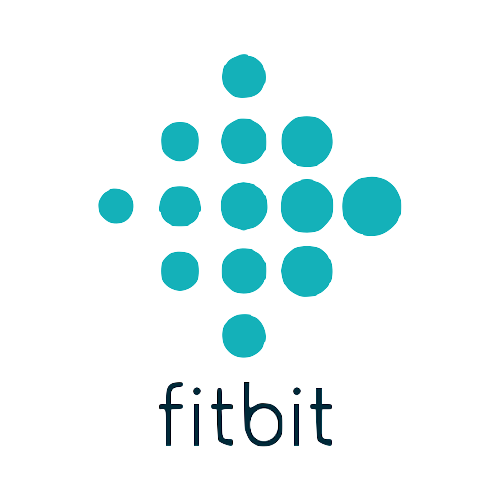
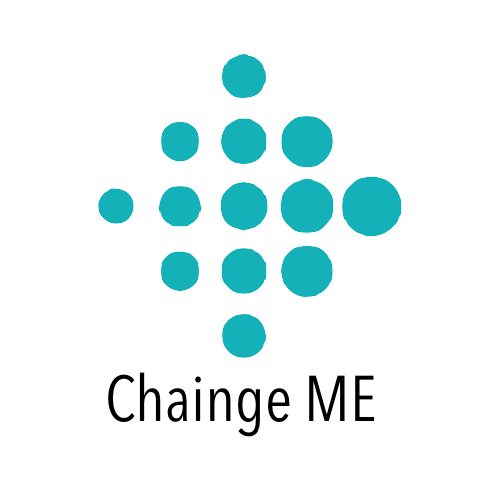
Chainge ME and graphics

Changed region(s): [[0.21, 0.75, 0.75, 0.9]]

diff --git a/app/callback.html b/app/callback.html
@@ -1,7 +1,7 @@
 <!DOCTYPE html>
 <html>
 <head>
-    <title>MetaCoin - Default Truffle App</title>
+    <title>Chainge ME</title>
     <!--link href='https://fonts.googleapis.com/css?family=Open+Sans:400,700' rel='stylesheet' type='text/css'>
     <link href="./app.css" rel='stylesheet' type='text/css'-->
     <script src="./app.js"></script>
@@ -49,7 +49,7 @@
             width: 300px;
             position: absolute;
             left: 120px;
-            top: 319px;
+            top: 339px;
         }
         #sign {
             border-radius: 30%;
@@ -95,6 +95,11 @@
         button.mui-btn.mui-btn--primary {
             background-color: rgb(20, 177, 185);
         }
+        h4.goalAddress {
+            word-break: break-all;
+            color: wheat;
+            font-family: fantasy;
+        }
     </style>
 </head>
 <body>
@@ -138,7 +143,7 @@
                 <span class="mui-caret"></span>
               </button>
               <ul class="mui-dropdown__menu mui-dropdown__menu--right">
-                <li><a href="#" @click="g.friend = 'Bill&Melinda Gates'"><img class="img-circle" src="http://fillmurray.com/64/64" width="38px" height="38px">Bill&Melinda Gates</a></li>
+                <li><a href="#" @click="g.friend = 'Kevin Loaec'"><img class="img-circle" src="http://fillmurray.com/64/64" width="38px" height="38px">Kevin Loaec</a></li>
                 <li><a href="#" @click="g.friend = 'UNICEF'"><img class="img-circle" src="http://fillmurray.com/65/65" width="38px" height="38px">UNICEF</a></li>
                 <li><a href="#" @click="g.friend = 'Children’s Health Fund'"><img class="img-circle" src="http://fillmurray.com/66/66" width="38px" height="38px">Children's Health Fund</a></li>
                 <li><a href="#" @click="g.friend = 'Friends of Animals'"><img class="img-circle" src="http://fillmurray.com/67/67" width="38px" height="38px">Friends of Animals</a></li>
@@ -182,6 +187,7 @@
     })
     Vue.component('contract', {
         template: `
+        <div>
         <div class="contract">
             <article id="contract">
                 <h3 id="personalcontract">Personal Contract</h3>
@@ -200,14 +206,20 @@
                     <img src="http://img12.deviantart.net/8b7c/i/2013/055/3/0/wax_seal_a_by_shinraxtensei-d5w3qe6.png" id="seal" v-if="waxSeal">
                     <button id="sign" v-on:click="createGoal" v-if="!contractSigned">Sign</button>
                 </div>
+
             </article>
+        </div>
+        <div v-if="goalAddress">
+           <h4 class="goalAddress">Your contract is stored at: {{goalAddress}}</h4>
+        </div>
         </div>
         `,
         data () {
             return {
                 waxSeal: false,
                 contractSigned: false,
-                g
+                g,
+                goalAddress: undefined
             }
         },
         methods: {
@@ -225,6 +237,7 @@
                   // TODO ??
                   this.waxSeal = true
                   const goal = Goal.at(goalAddress);
+                  this.goalAddress = goalAddress
                   console.log(`goalAddress=${goalAddress}`)
                   return goal;
                 })

diff --git a/app/index.html b/app/index.html
@@ -1,7 +1,7 @@
 <!DOCTYPE html>
 <html>
 <head>
-  <title>MetaCoin - Default Truffle App</title>
+  <title>Chainge ME</title>
   <link href='https://fonts.googleapis.com/css?family=Open+Sans:400,700' rel='stylesheet' type='text/css'>
   <link href="./app.css" rel='stylesheet' type='text/css'>
   <script src="./app.js"></script>
